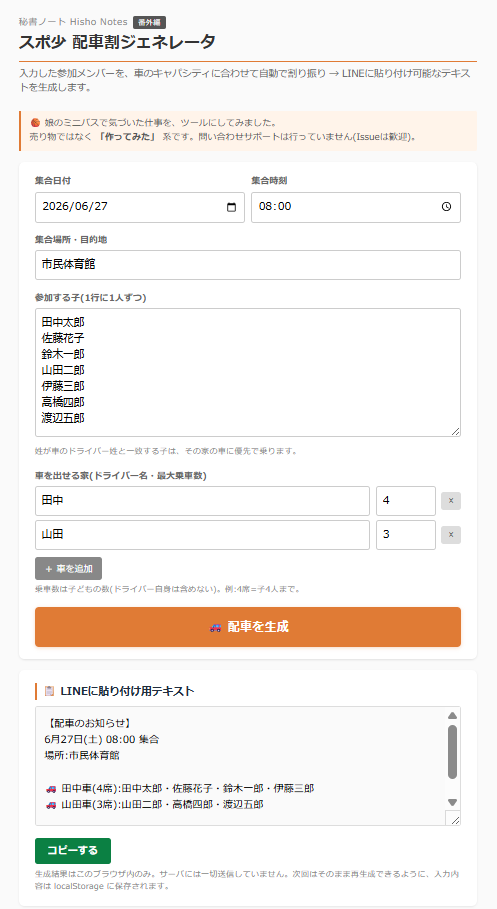
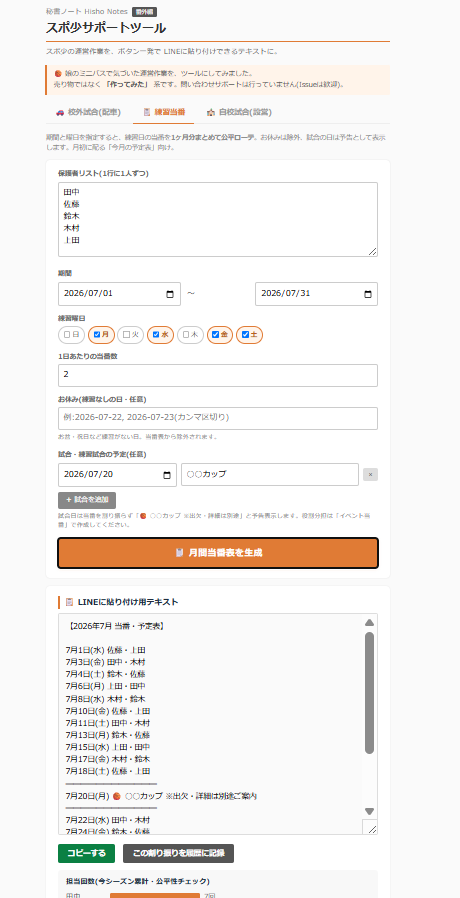
Update demo.png for v1.1 (3-tab) and clarify game name placeholder

diff --git a/spo-tool/index.html b/spo-tool/index.html
@@ -248,7 +248,7 @@
           <div class="game-list" id="gameList">
             <div class="game-row">
               <input type="date" class="game-date" aria-label="試合日">
-              <input type="text" class="game-name" placeholder="例:○○カップ">
+              <input type="text" class="game-name" placeholder="試合名のみ(例:○○カップ)">
               <button type="button" class="remove-row" onclick="removeGame(this)">×</button>
             </div>
           </div>
@@ -531,7 +531,7 @@
       row.className = 'game-row';
       row.innerHTML = `
         <input type="date" class="game-date" value="${esc(date)}" aria-label="試合日">
-        <input type="text" class="game-name" placeholder="例:○○カップ" value="${esc(name)}">
+        <input type="text" class="game-name" placeholder="試合名のみ(例:○○カップ)" value="${esc(name)}">
         <button type="button" class="remove-row" onclick="removeGame(this)">×</button>
       `;
       $('gameList').appendChild(row);
